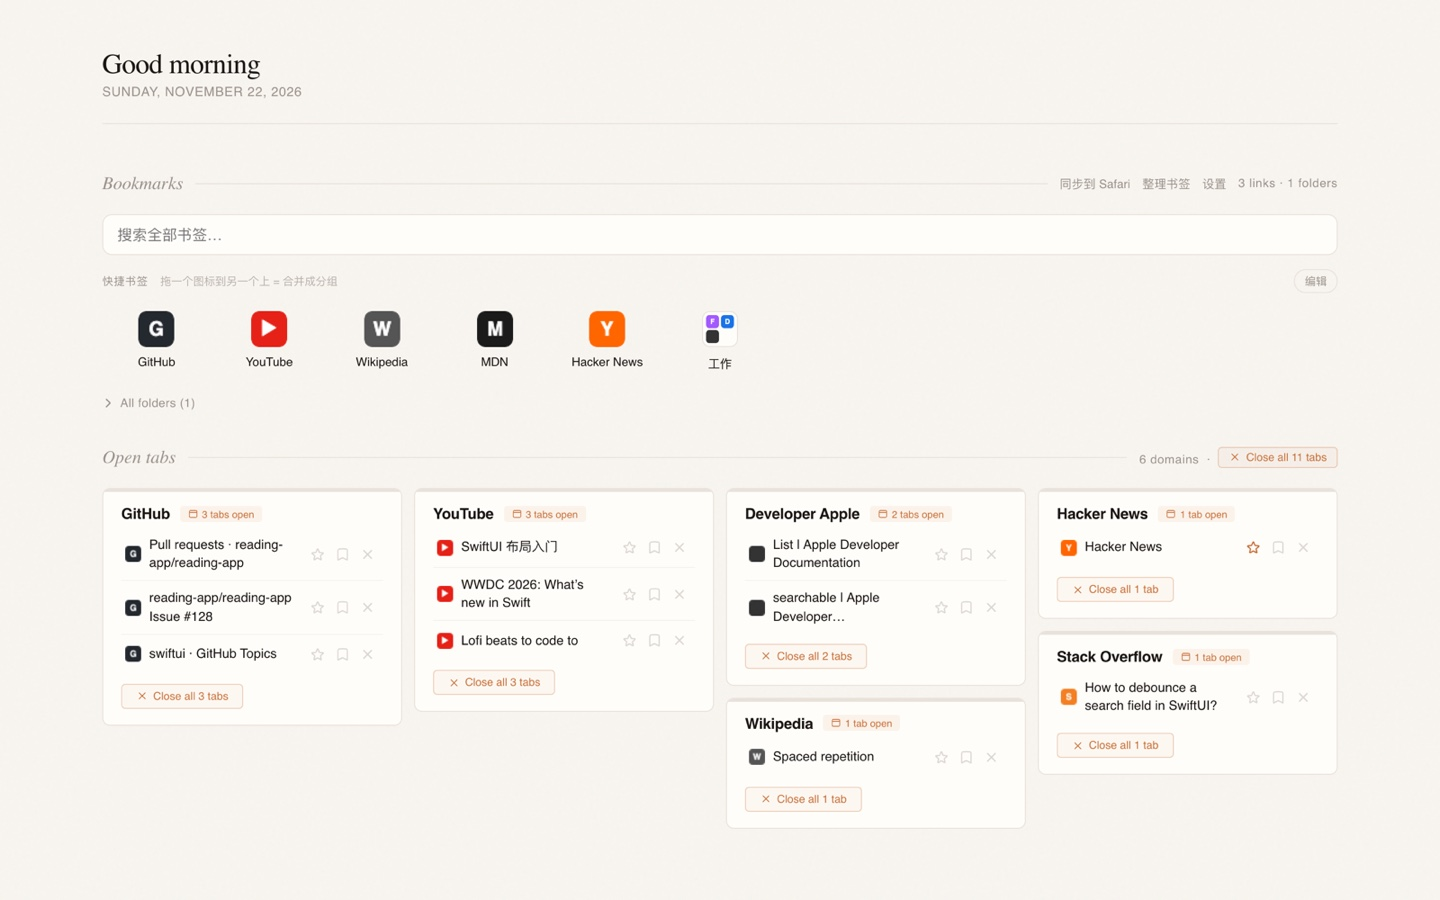
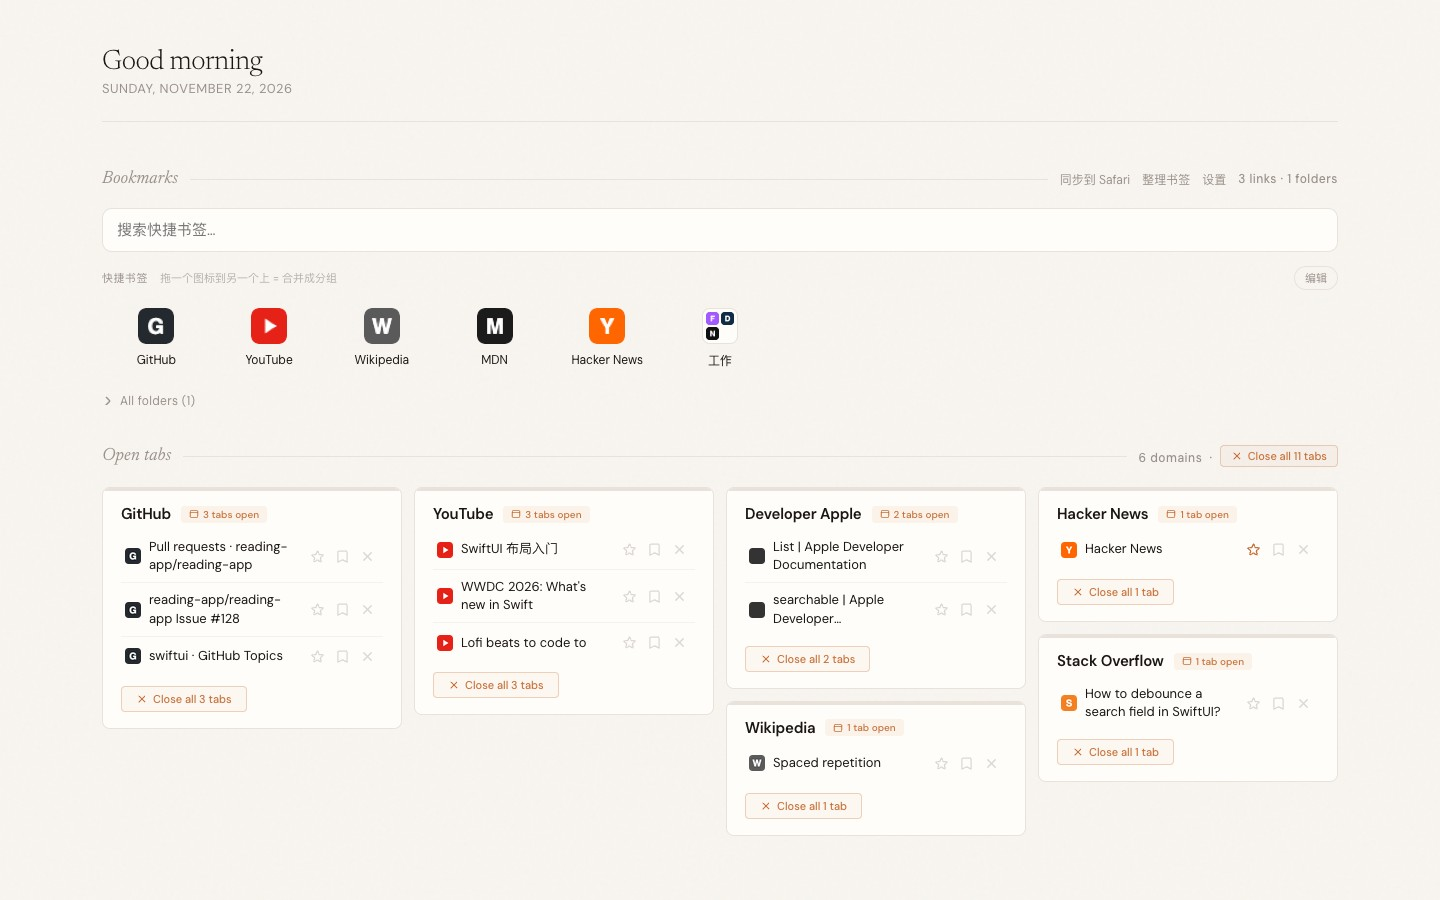
docs: README 新标签页截图换成「搜索快捷书签」的搜索框 (task-e4el7)

diff --git a/README.en.md b/README.en.md
@@ -4,7 +4,7 @@
 
 Replaces your browser's new tab page: open tabs grouped by site, with your quick links on top and a search box that searches them (including the links inside groups). **Quick links sync through iCloud between Chrome, Safari and all your Macs.**
 
-![The new tab page: quick links and bookmark search on top, open tabs grouped by site below](docs/screenshots/newtab.jpg)
+![The new tab page: quick links and a search box for them on top, open tabs grouped by site below](docs/screenshots/newtab.jpg)
 
 - **Chrome extension** — full feature set. Works on its own without the Mac app (quick links then sync with Chrome bookmarks, Windows included).
 - **Safari extension** — quick links + open tabs. Safari uses less memory than Chrome, so it's nice for everyday browsing.

diff --git a/README.md b/README.md
@@ -4,7 +4,7 @@
 
 接管浏览器的新标签页：打开的标签按网站整理成卡片，上面是快捷书签和它的搜索框（只搜快捷书签和分组里的书签）。**快捷书签经 iCloud 在 Chrome、Safari 和你的所有 Mac 之间同步。**
 
-![新标签页：上面是快捷书签和书签搜索，下面是按网站分好的打开标签](docs/screenshots/newtab.jpg)
+![新标签页：上面是快捷书签和搜索快捷书签的搜索框，下面是按网站分好的打开标签](docs/screenshots/newtab.jpg)
 
 - **Chrome 扩展**：完整功能。没装 Mac App 时也能单独用（快捷书签随 Chrome 书签同步，Windows 也可以）。
 - **Safari 扩展**：快捷书签 + 打开的标签。Safari 内存占用比 Chrome 小，适合日常浏览。
